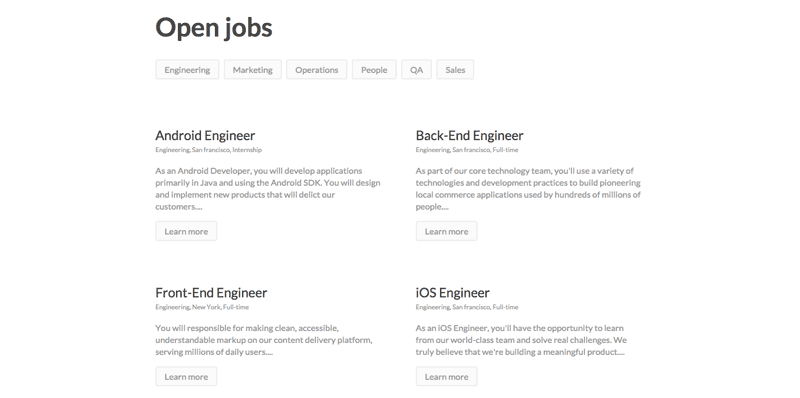
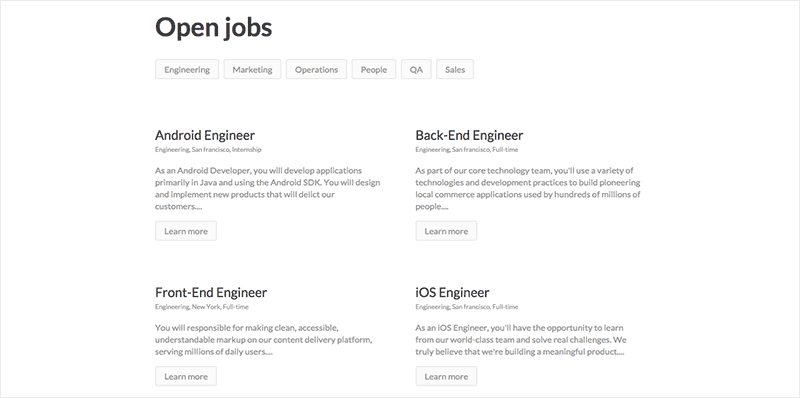
Added images with border and another example

diff --git a/README.md b/README.md
@@ -63,6 +63,11 @@ Displays all jobs alphabetically, with each job in a card.
 
 ![Single column layout with cards](https://raw.github.com/lever/postings-API/master/images/1col-cards.png)
 
+[Single column layout with cover image](http://codepen.io/andreasmb/pen/kJfrc)
+Displays jobs in a single column, with a cover image on top.
+
+![Cover image](https://raw.github.com/lever/postings-API/master/images/1col-hero-image.png)
+
 
 
 # API Methods
